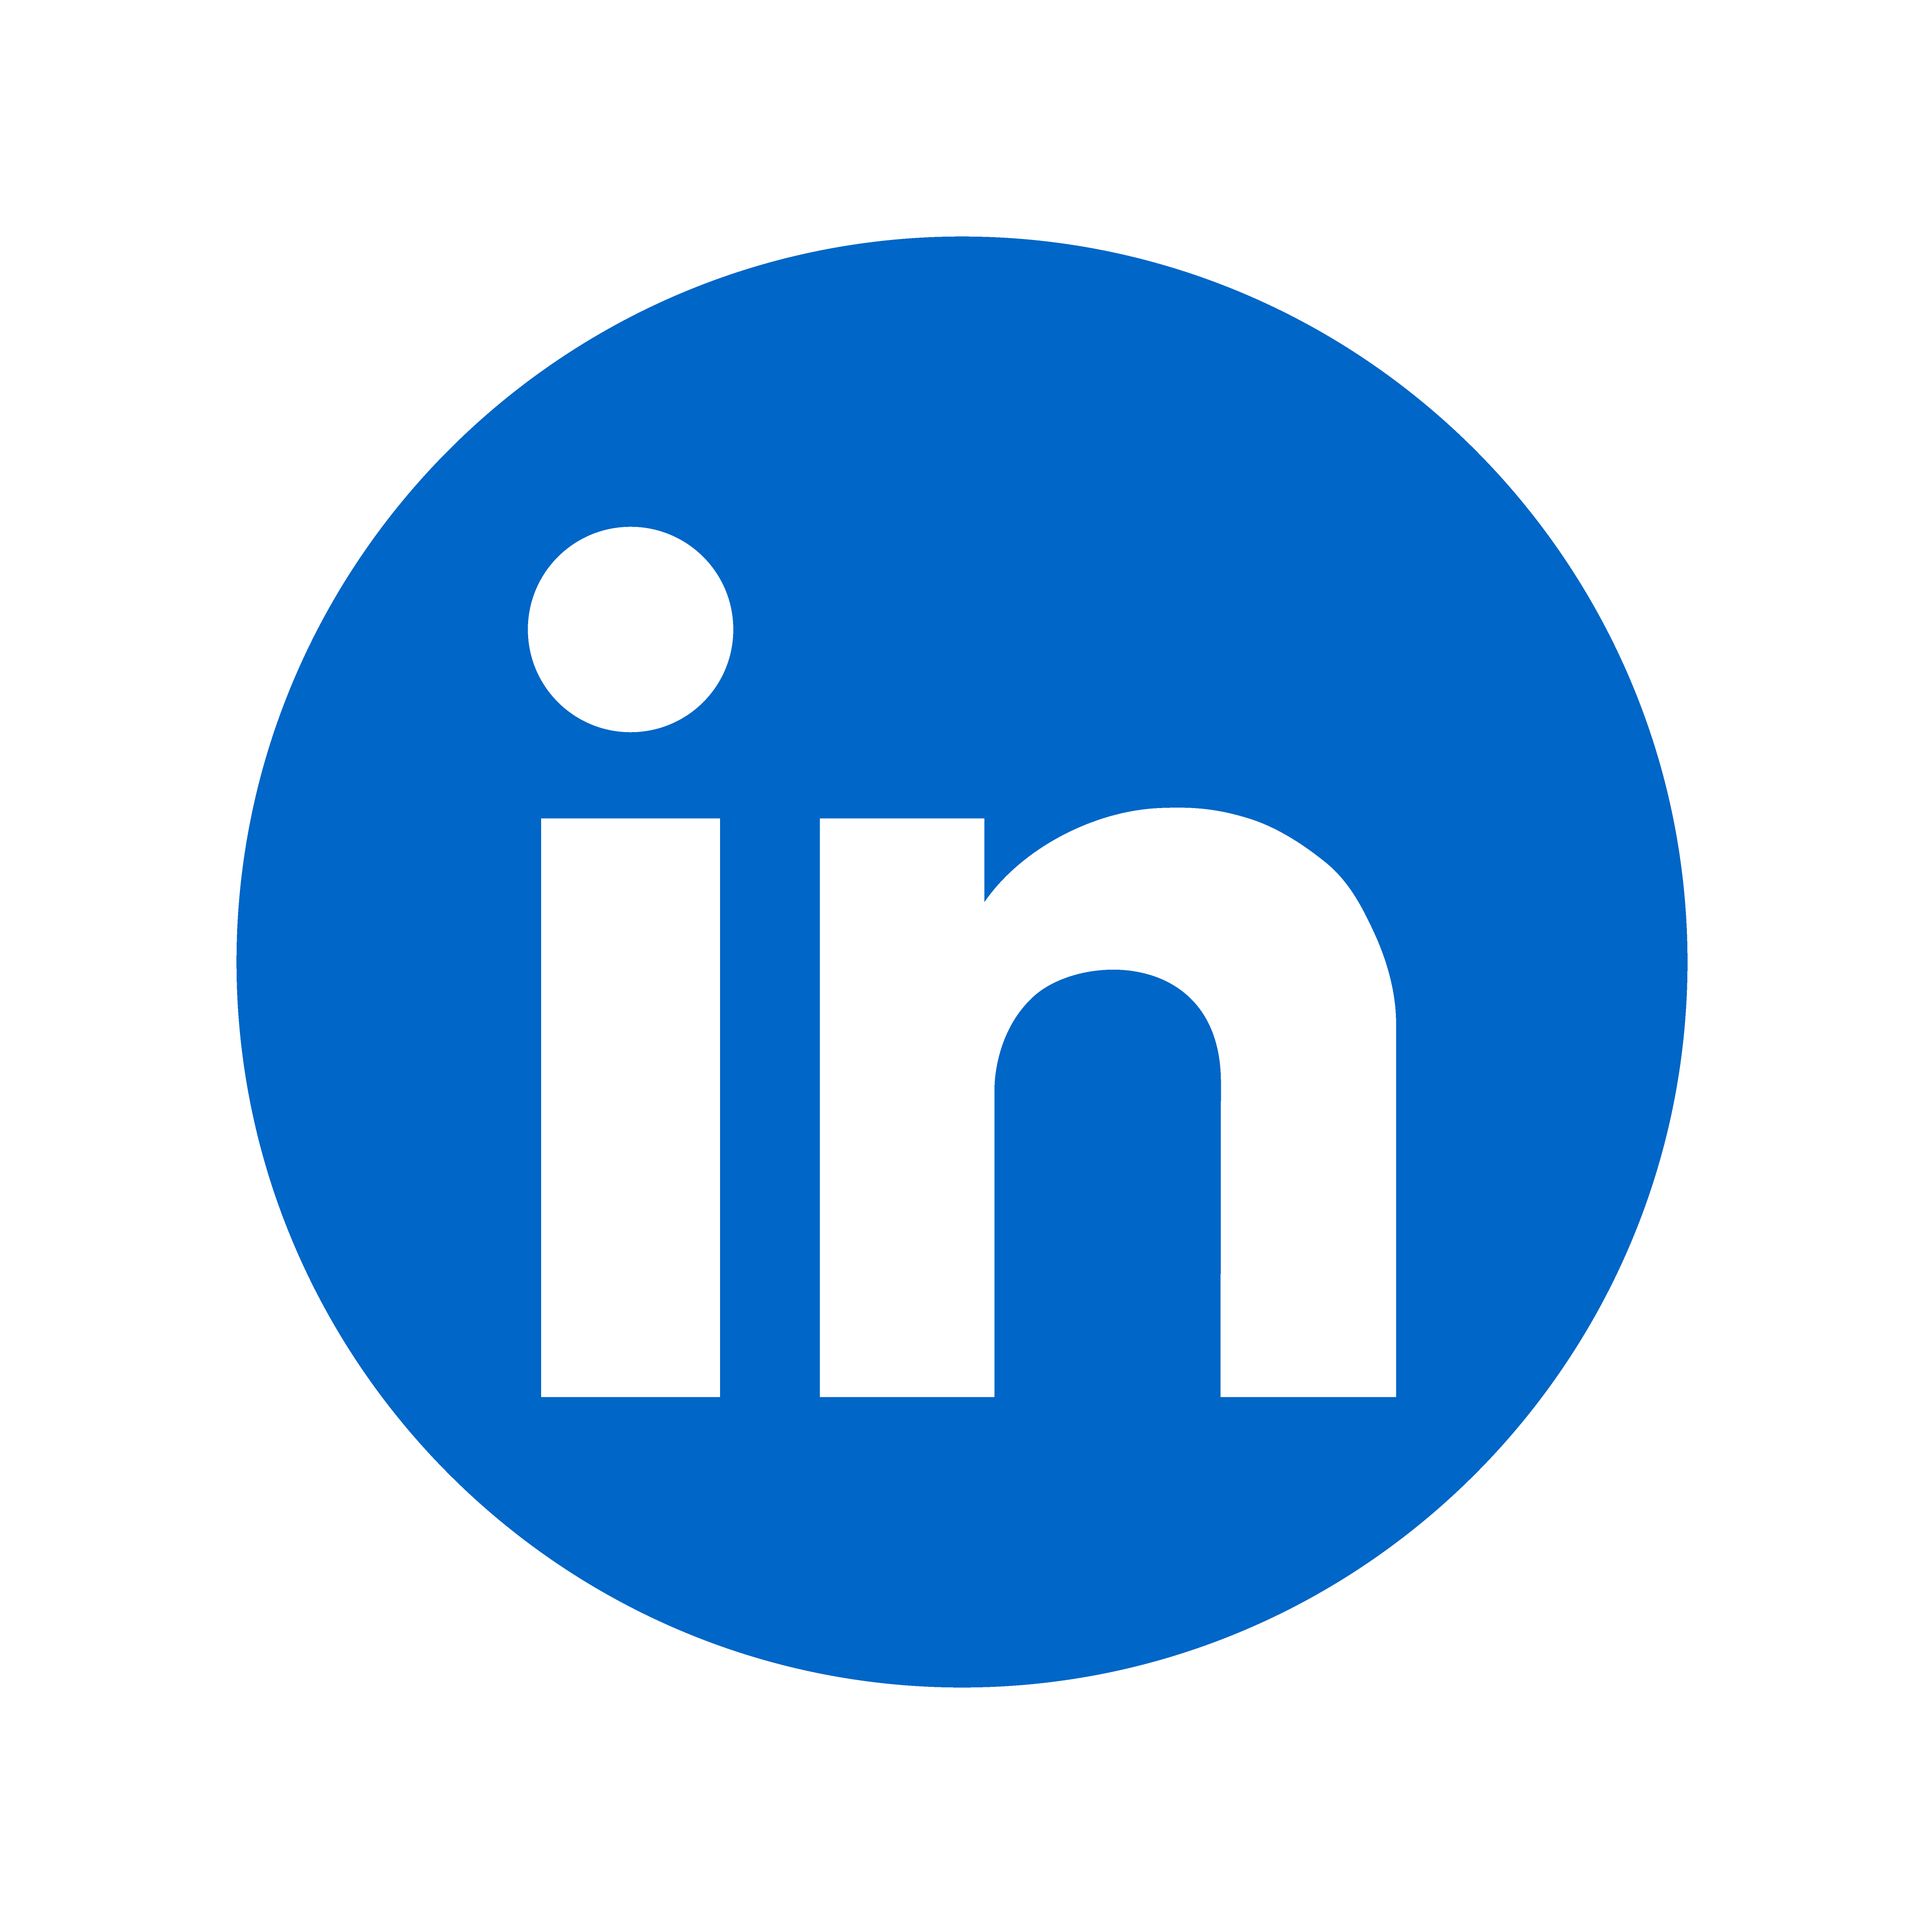
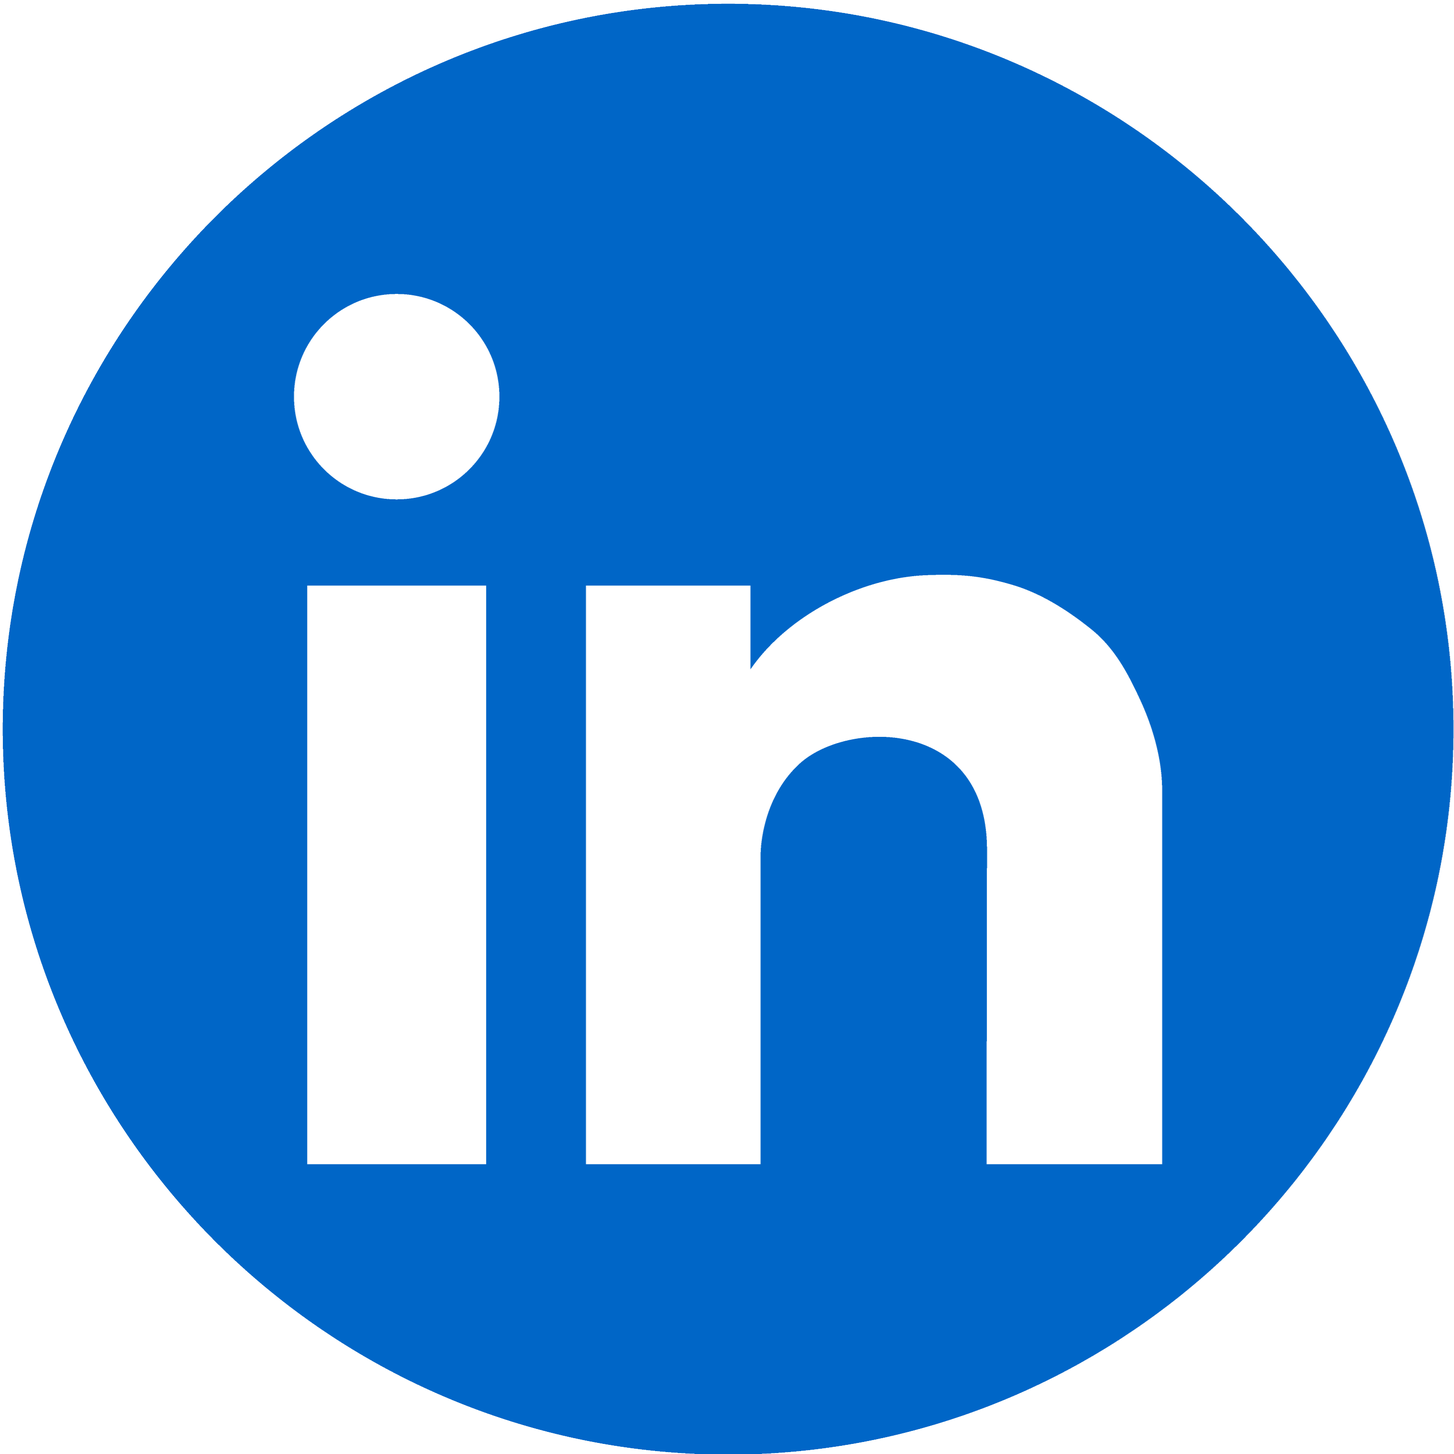
...

diff --git a/index.html b/index.html
@@ -28,11 +28,8 @@
     </section>
 
     <section class="social-icons">
-        <!-- Updated paths for the icons -->
-        <a href="https://www.linkedin.com/in/anthony-kobanda/" target="_blank"><img src="images/linkedin.png"
-                alt="LinkedIn"></a>
-        <a href="https://scholar.google.com/citations?user=dEBQPAkAAAAJ" target="_blank"><img src="images/scholar.png"
-                alt="Google Scholar"></a>
+        <a href="https://www.linkedin.com/in/anthony-kobanda/" target="_blank"><img src="images/linkedin.png" alt="LinkedIn"></a>
+        <a href="https://scholar.google.com/citations?user=dEBQPAkAAAAJ" target="_blank"><img src="images/scholar.png" alt="Google Scholar"></a>
         <a href="https://twitter.com/anthonykobanda" target="_blank"><img src="images/twitter.png" alt="Twitter"></a>
         <a href="https://company.com" target="_blank"><img src="images/company.png" alt="Company"></a>
     </section>

diff --git a/styles.css b/styles.css
@@ -55,3 +55,9 @@ footer {
     text-align: center;
     margin-top: 50px;
 }
+
+.social-icons img {
+    width: 36px;
+    height: 36px;
+    object-fit: contain;
+}
